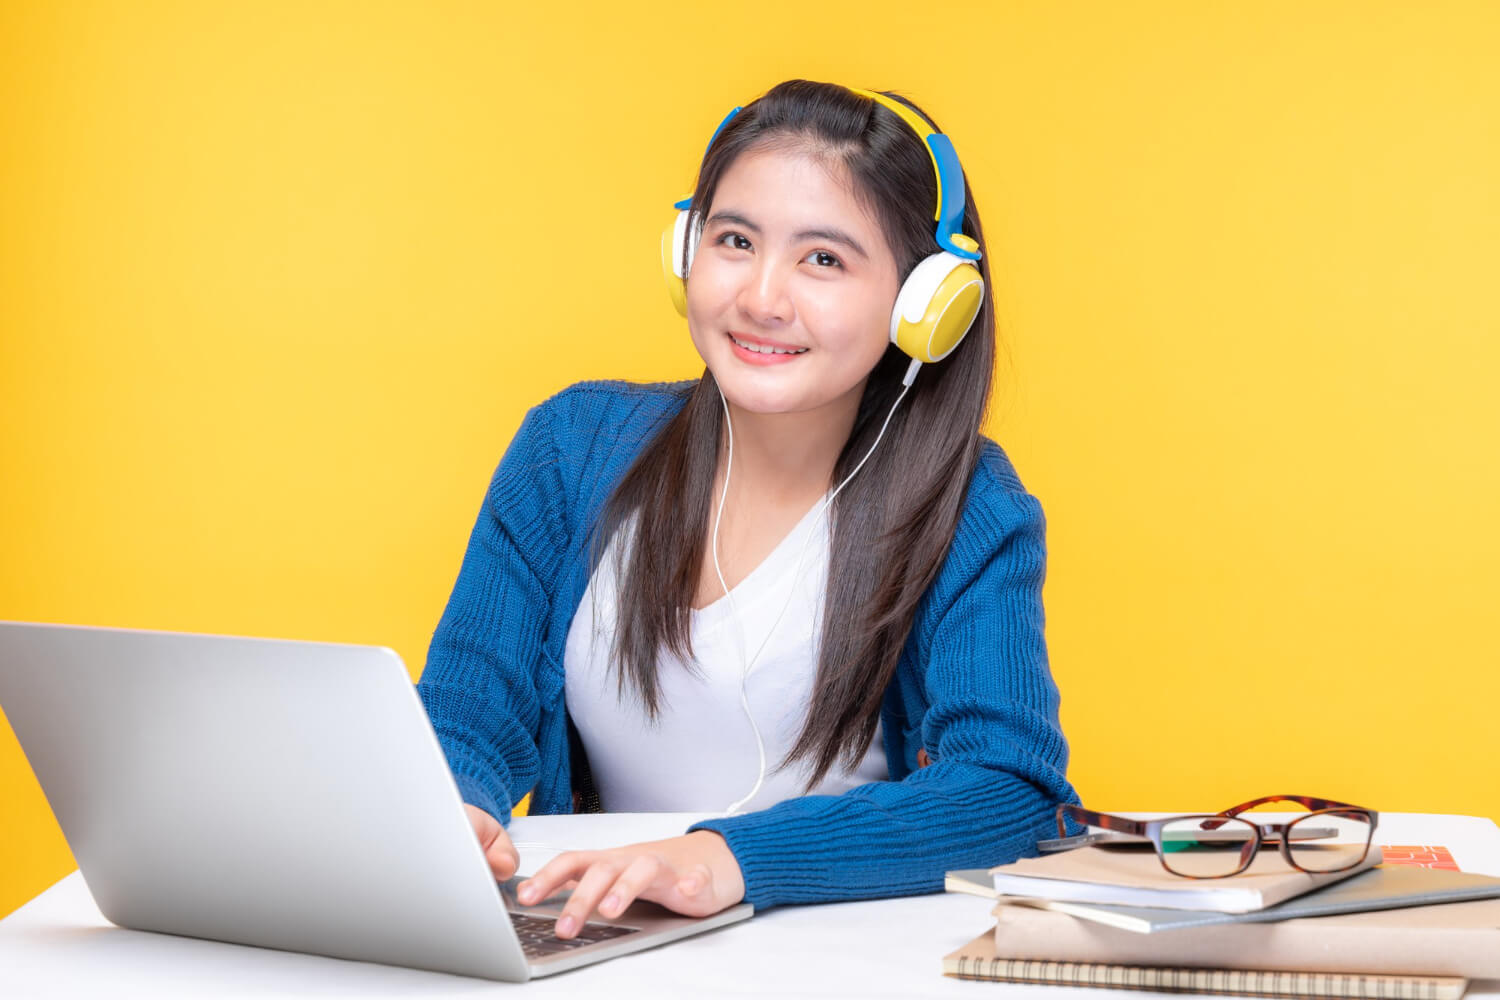
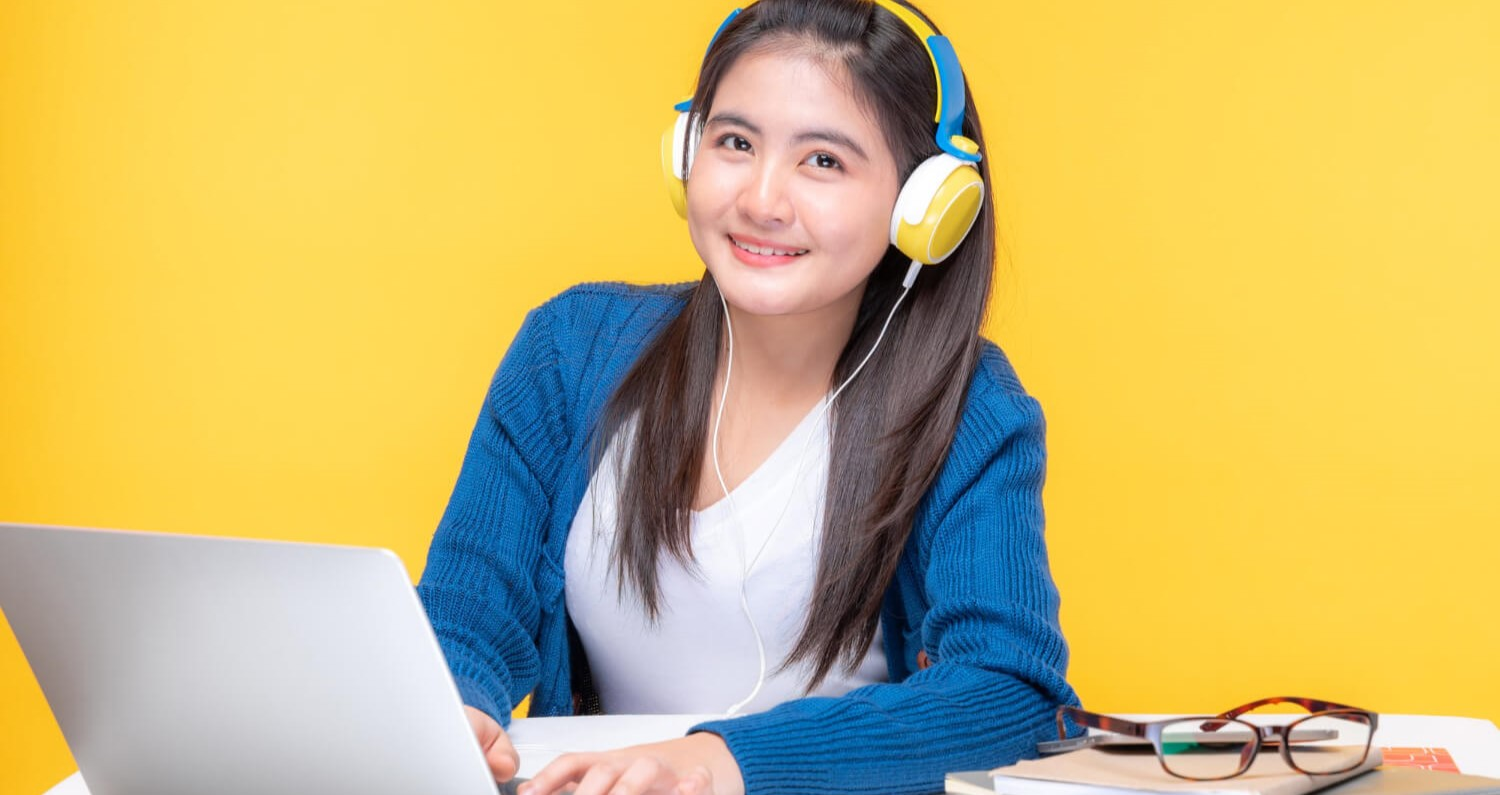
carousel added

diff --git a/index.html b/index.html
@@ -55,6 +55,63 @@
             </div>
         </nav>
     </header>
+
+    <section class="container carous">
+        <div id="carouselExampleControls" class="carousel slide" data-bs-ride="carousel">
+            <div class="carousel-inner">
+                <div class="carousel-item active">
+                    <div class="carous-image">
+                        <img src="images/cover/cover-1.png" class="d-block w-100" alt="cover-1">
+                    </div>
+                    <div class="carousel-caption d-md-block mb-lg-5 mx-md-0 mx-lg-5 pb-lg-5">
+                        <h1>Get Started Digital
+                            Learning</h1>
+                        <p>Learn digital skills for at your own pace, with personalised training designed to help
+                            you
+                            develop your career, market your business, and more.</p>
+                        <button type="button" class="btn btn-primary btn-lg">Get Started</button>
+                    </div>
+                </div>
+                <div class="carousel-item">
+                    <div class="carous-image">
+                        <img src="images/cover/cover-2.jpg" class="d-block w-100" alt="cover-2">
+                    </div>
+                    <div class="carousel-caption d-md-block mb-lg-5 mx-md-0 mx-lg-5 pb-lg-5">
+                        <h1>Get Started Digital
+                            Learning</h1>
+                        <p>Learn digital skills for at your own pace, with personalised training designed to help
+                            you
+                            develop your career, market your business, and more.</p>
+                        <button type="button" class="btn btn-primary btn-lg">Get Started</button>
+                    </div>
+                </div>
+                <div class="carousel-item">
+                    <div class="carous-image">
+                        <img src="images/cover/cover-3.jpg" class="d-block w-100" alt="cover-3">
+                    </div>
+                    <div class="carousel-caption d-md-block mb-lg-5 mx-md-0 mx-lg-5 pb-lg-5">
+                        <h1>Get Started Digital
+                            Learning</h1>
+                        <p>Learn digital skills for at your own pace, with personalised training designed to help
+                            you
+                            develop your career, market your business, and more.</p>
+                        <button type="button" class="btn btn-primary btn-lg">Get Started</button>
+                    </div>
+                </div>
+            </div>
+            <button class="carousel-control-prev" type="button" data-bs-target="#carouselExampleControls"
+                data-bs-slide="prev">
+                <span class="carousel-control-prev-icon" aria-hidden="true"></span>
+                <span class="visually-hidden">Previous</span>
+            </button>
+            <button class="carousel-control-next" type="button" data-bs-target="#carouselExampleControls"
+                data-bs-slide="next">
+                <span class="carousel-control-next-icon" aria-hidden="true"></span>
+                <span class="visually-hidden">Next</span>
+            </button>
+        </div>
+    </section>
+
     <script src="https://cdn.jsdelivr.net/npm/bootstrap@5.2.0/dist/js/bootstrap.bundle.min.js"
         integrity="sha384-A3rJD856KowSb7dwlZdYEkO39Gagi7vIsF0jrRAoQmDKKtQBHUuLZ9AsSv4jD4Xa"
         crossorigin="anonymous"></script>

diff --git a/css/styles.css b/css/styles.css
@@ -1,3 +1,16 @@
 body {
     font-family: 'Poppins', sans-serif;
 }
+
+.carous h1 {
+    font-size: 4vw;
+    font-weight: 600;
+}
+
+.carous p {
+    font-weight: 300;
+}
+
+.carous-image {
+    filter: brightness(50%);
+}
